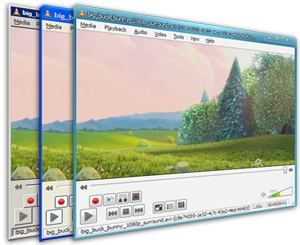
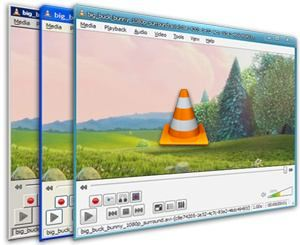
One image less

Changed region(s): [[0.51, 0.3429, 0.72, 0.6286]]

diff --git a/www.videolan.org/vlc/releases/1.1.0.php b/www.videolan.org/vlc/releases/1.1.0.php
@@ -69,7 +69,7 @@ function DoDL2( $os, $with_js=1 )
         <div class="panel" id="panel-vlc" style="display:block;">
             <div class="left">
 <center>
-<div style="margin: 20px 0 20px 20px; padding: 20px 0 30px 60px; background: url('http://images.videolan.org/images/vlc64x64.png') no-repeat left center;">
+<div style="margin: 20px 0 20px 20px; padding: 20px 0 30px 0px; ">
 <span style="padding-bottom: 60px; font-size:18px; font-weight: bold; line-height:19px;">The <b>new</b> cone. Always&nbsp;easy. Better.</span> </div>
                <div style="border: 0px red solid; margin: 0 auto; font-size: 21px; width: 13em;">
                  <script type="text/javascript"><!--
